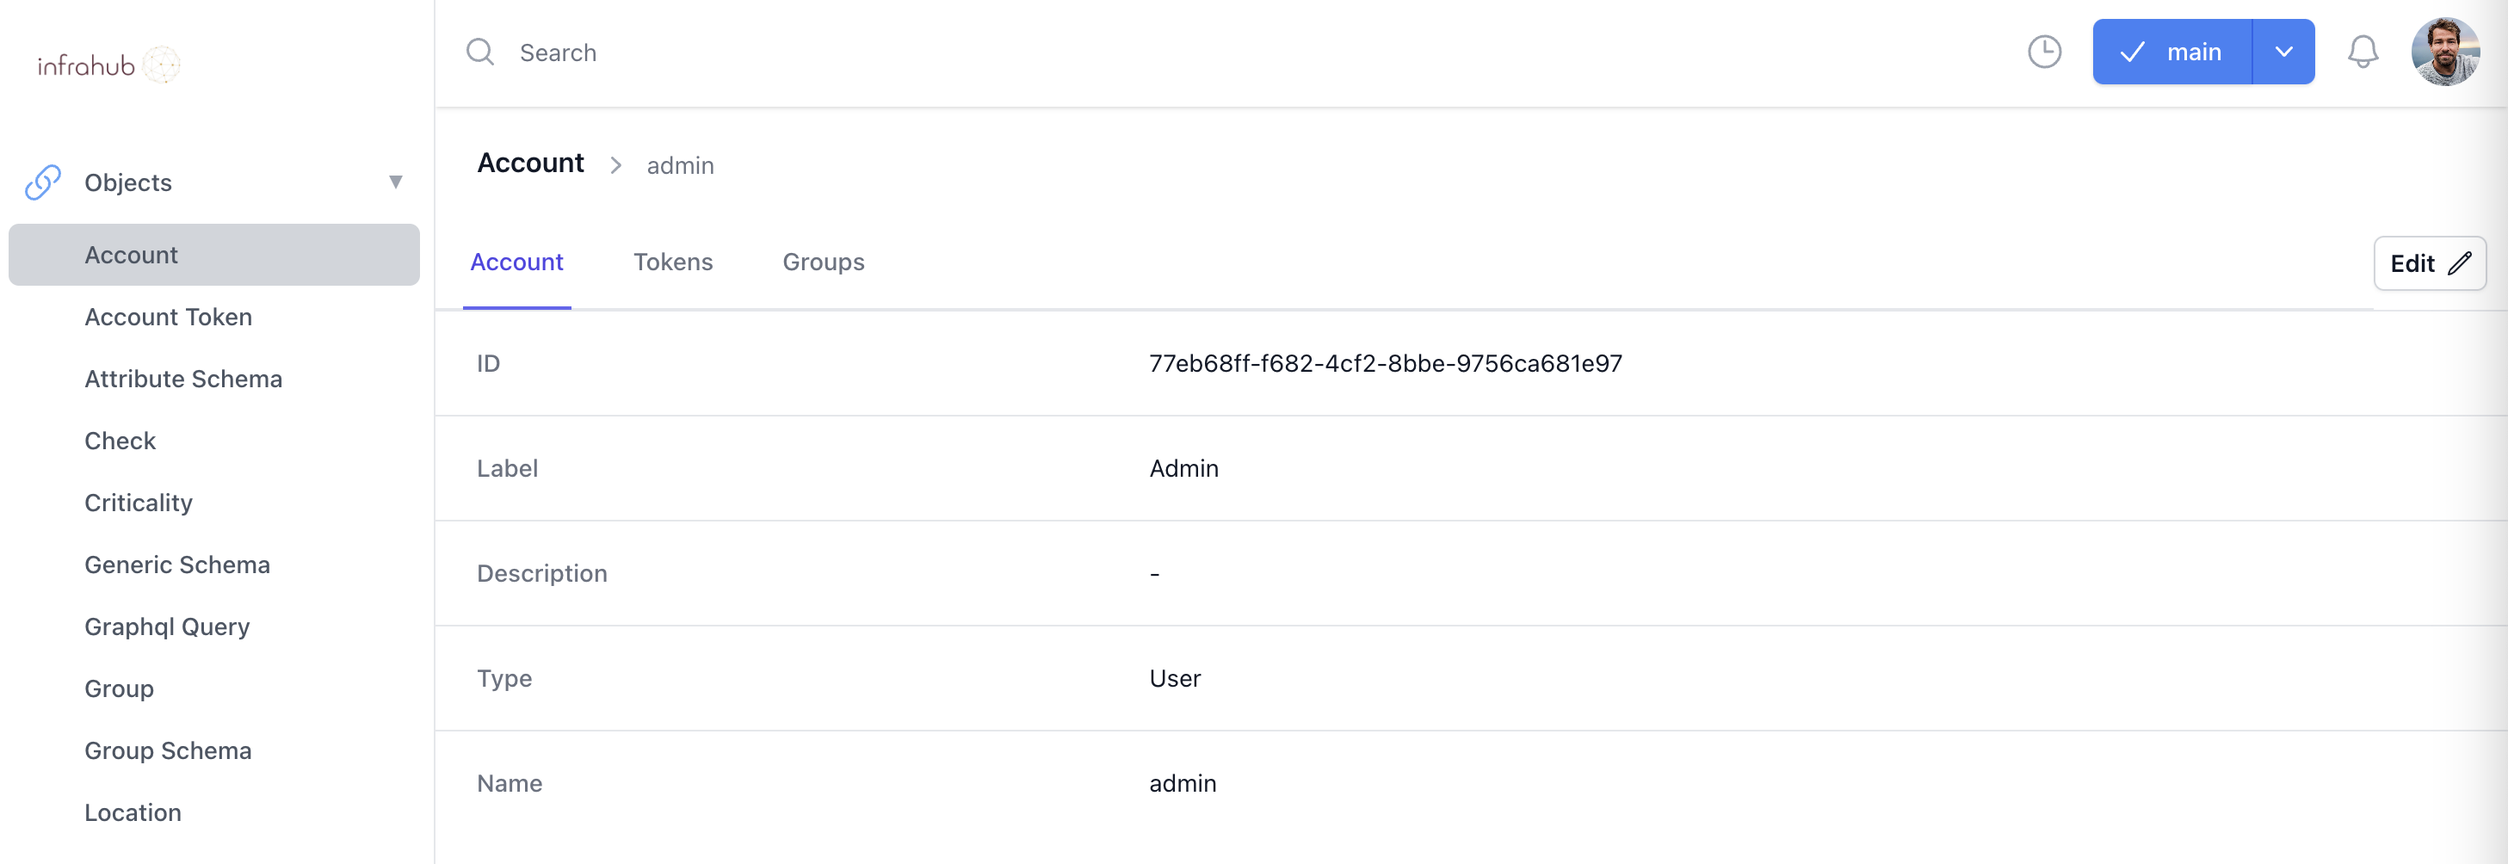
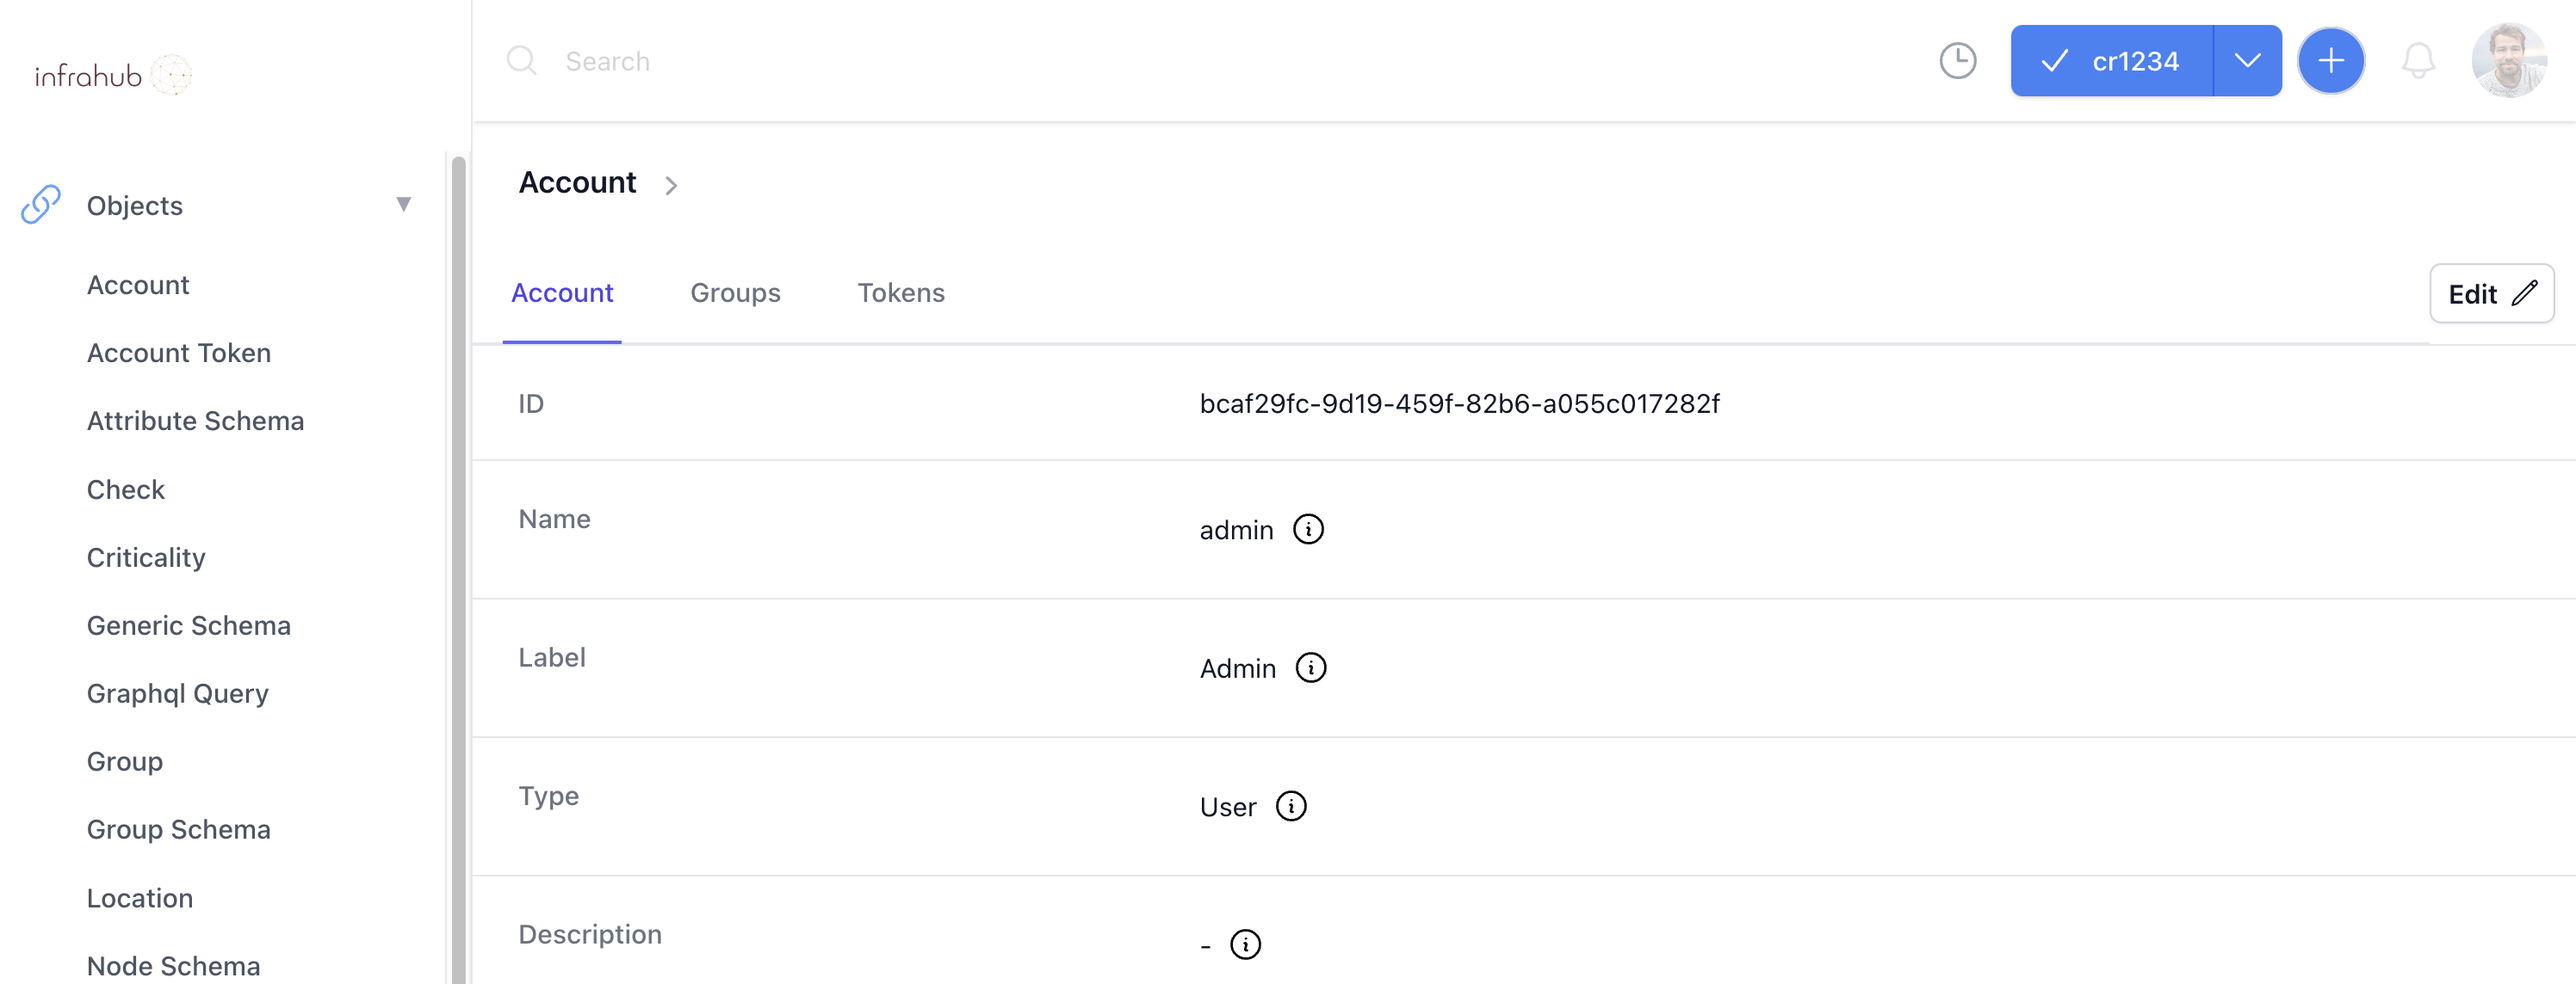
Cont working on tutorial

diff --git a/docs/02_tutorial/01_branches.md b/docs/02_tutorial/01_branches.md
@@ -9,11 +9,15 @@ In Infrahub, Version Control is natively integrated into the graph database whic
 
 The default branch is called `main`.
 
-
 ## Create a new Branch
 
-==- Create a new Branch using the Frontend
+To get started, let's create a new branch that we'll call `cr1234`.
 
+You can create a new branch in the frontend by using the round button with a plus sign in the top right corner
+
+![](../media/tutorial_branch_create.png)
+
+##### Other options available
 
 ==- Create a new Branch with `infrahubctl`
 
@@ -42,36 +46,40 @@ mutation {
   }
 }
 ```
-
-
-
 ==-
-
 
 ### Modify the Admin Account via the UI
 
-
-1. Reload the main page in order to refresh the list of branches
-2. Navigate to [http://localhost:3000/objects/account](http://localhost:3000/objects/account)
-3. Select the `admin` account (should be the only one)
-4. Select the newly created branch `cr1234` in the branch menu
-![Select the newly created branch `cr1234`](../media/tutorial_branch_select.png)
-
-5. Select the `edit` button on the top right corner
+> The name of the active branch in the top rigt corner should now be `cr1234`
+1. Select Account under Object in the left menu (near the top)
+2. Select the `admin` account (should be the only one)
+3. Select the `edit` button on the top right corner
+4. Update the label attribute of the Admin account, for example with `Administrator`
+5. Save your change with the button `save`
 
 ![Select the `edit` button](../media/tutorial_account_edit.png)
 
-6. Update the label attribute of the Admin account, for example with `Administrator`
-7. Save your change with the button `save`
-
-
-!!!success
-Go back to the detailed page for the Account `Admin` and try to switch branches with the branch selection menu at the top, you should be able to see the value of the label change when you change the branch.
+!!!success Validate that everything is correct
+Go back to the detailed page for the Account `Admin` and try to switch branches with the branch selection menu at the top. <br>
+**You should be able to see the value of the label change when you change the branch.**
 !!!
 
 ### Merge the branch cr1234 into Main
 
 Now that we have modify some data in a controled environment, and after validating that everything is right, we can integrate these changes in the `main` branch by merging the branch `cr1234` into main.
+
+To merge a branch you need to :
+1. Navigate to the branch menu at the very bottom of the menu on the left (or [follow this lin](http://localhost:3000/branches/))
+2. Select the branch `cr1234` in the list of available branches.
+3. Click the `merge` button
+
+![Branch list page](../media/tutorial_branch_list.png)
+
+![Branch detailed page](../media/tutorial_branch_detail.png)
+
+
+
+##### Other options available
 
 ==- Merge a Branch with `infrahubctl`
 
@@ -100,16 +108,11 @@ mutation {
   }
 }
 ```
-
-
-==- Merge a Branch using the Frontend
-!!!warning
-It's not yet possible to merge a branch via the frontend
-!!!
 ==-
 
-!!!success
-Go back to the detailed page for the Account `Admin`, the object should now have the value previously defined in the branch.
+!!!success Validate that everything is correct
+Go back to the detailed page for the Account `Admin`.<br>
+**The object should now have the value previously defined in the branch.**
 !!!
 
 

diff --git a/docs/02_tutorial/02_historical_data.md b/docs/02_tutorial/02_historical_data.md
@@ -13,6 +13,6 @@ Using the time selection menu, next to the branch selection drop down, select a 
 
 ![](../media/tutorial_time_selection.png)
 
-!!!success
-When playing with the time around the time when the branch `cr1234` was merged into `main` you should be able to see the value changing in `main`
+!!!success Validate that everything is correct
+When playing with the time around the time when the branch `cr1234` was merged into `main` you should be able to see the value changing in `main`.
 !!!
